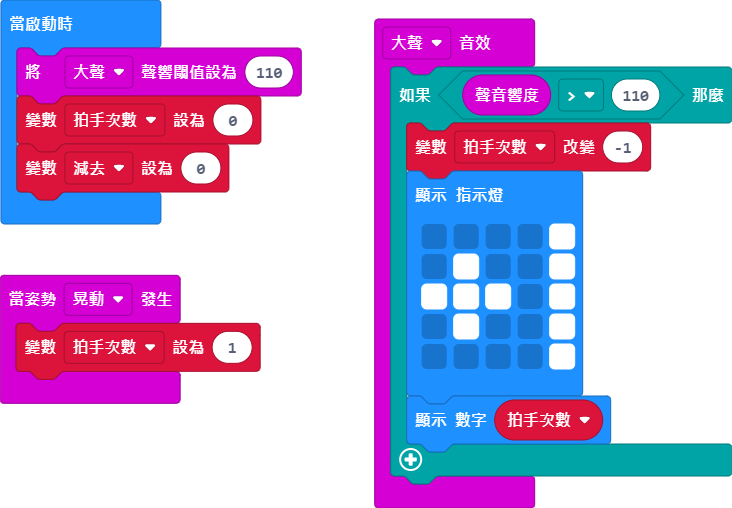
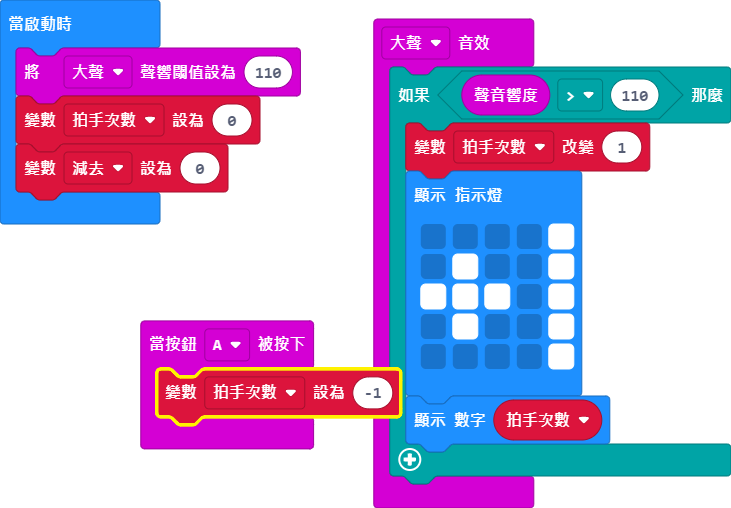
更新 main.blocks, main.ts

diff --git a/main.ts b/main.ts
@@ -1,9 +1,9 @@
-input.onGesture(Gesture.Shake, function () {
-    拍手次數 = 1
+input.onButtonPressed(Button.A, function () {
+    拍手次數 = -1
 })
 input.onSound(DetectedSound.Loud, function () {
     if (input.soundLevel() > 110) {
-        拍手次數 += -1
+        拍手次數 += 1
         basic.showLeds(`
             . . . . #
             . # . . #
